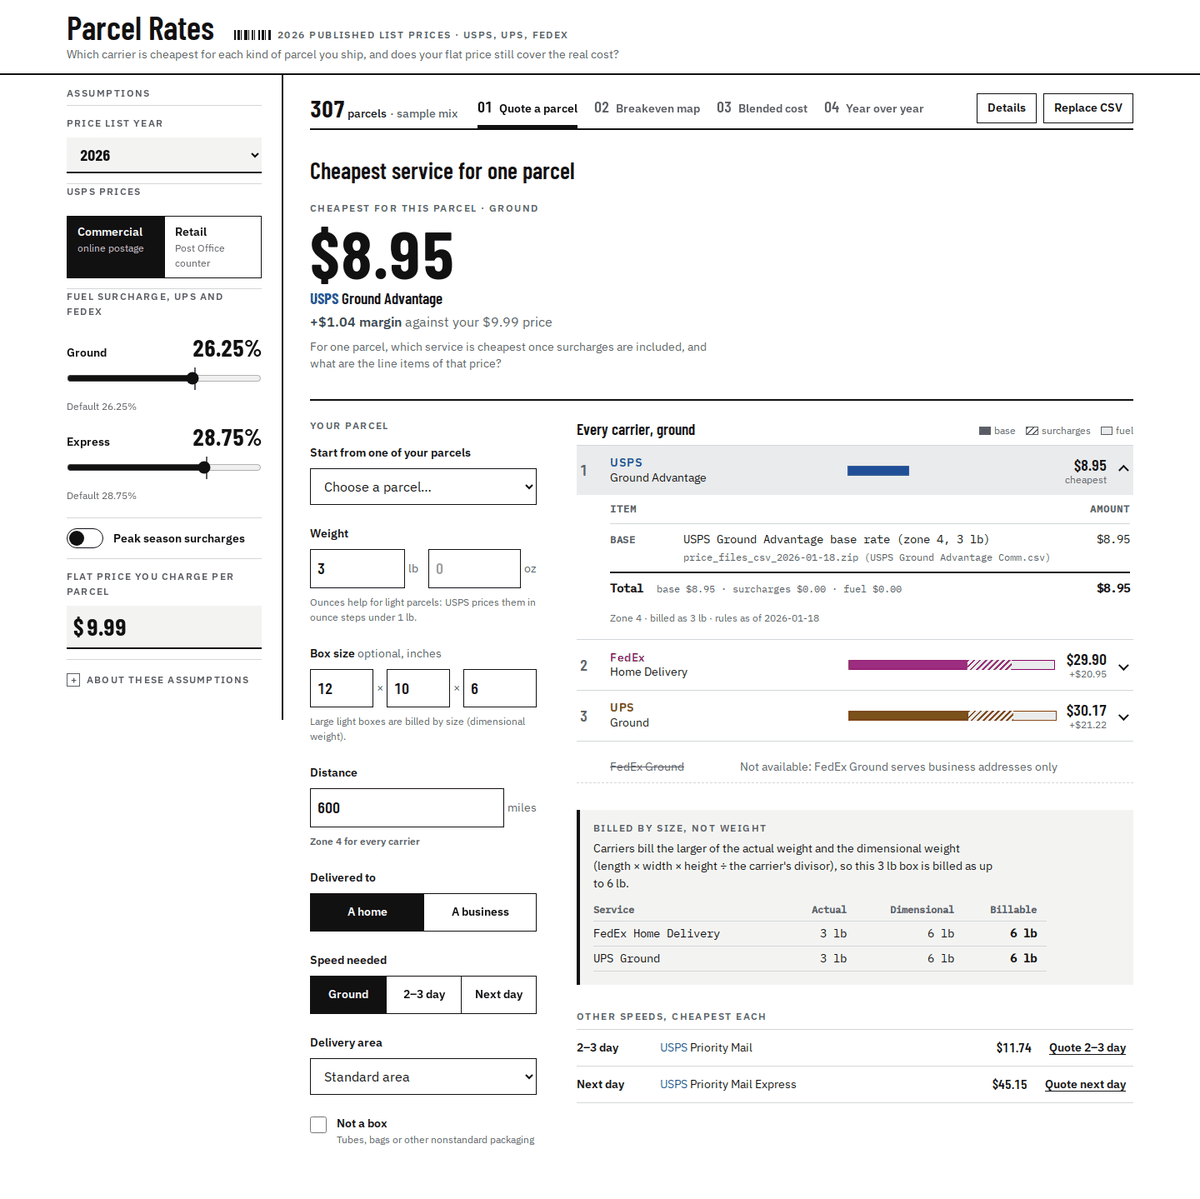
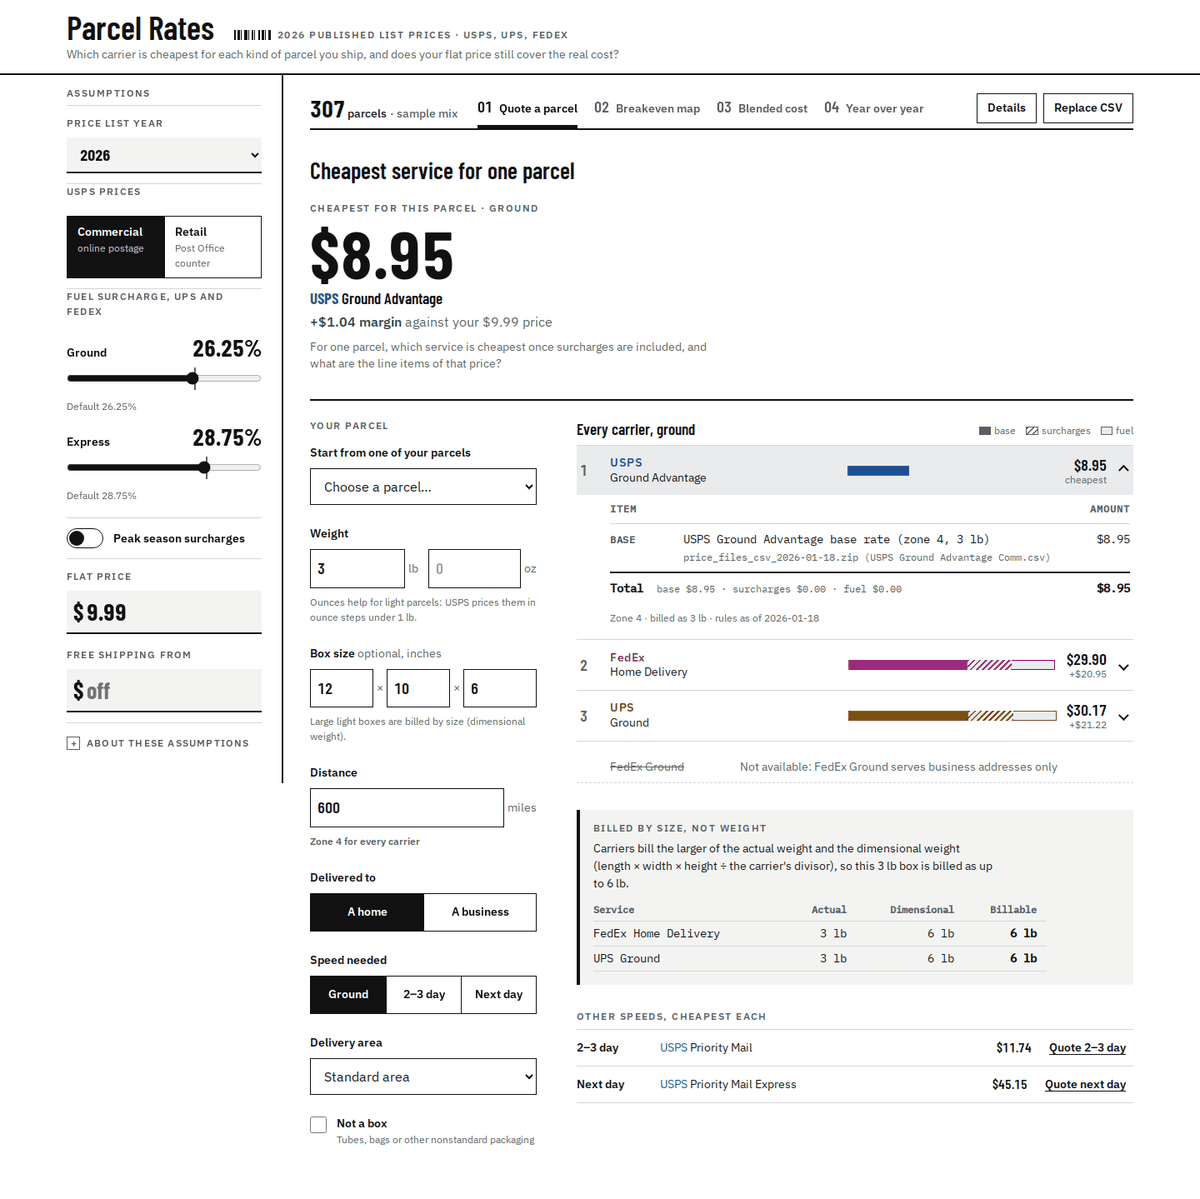
docs: free-shipping rule in API, schema, README, DESIGN and DECISIONS; screenshots

Changed region(s): [[0.0617, 0.4937, 0.2158, 0.648], [0.1542, 0.4629, 0.185, 0.4937]]

diff --git a/README.md b/README.md
@@ -93,12 +93,14 @@ cost once surcharges and yearly price increases are included.
 | 4 | How did that blended cost change year by year, compared with the average increase the carriers announced, and which parcels drove it? | The cheapest carrier's change since the first year against the compounded announced increases, a year by year chart (dollars or index) with the announced path, how much of the biggest rise was fuel, the segments that drove each step, and a next-year slider that projects the cost. |
 
 Global controls: price year, USPS rate card, fuel surcharge override, peak
-season toggle, and the flat price charged per parcel.
+season toggle, the flat price charged per parcel, and an optional "free shipping
+from order value" rule (parcels whose `order_value` reaches it are charged $0).
 
 Parcel CSV columns: `weight_lb, length_in, width_in, height_in,
 distance_miles, residential, speed` (`ground`, `two_three_day`, `next_day`),
 plus optional `quantity`, `price_charged`, `delivery_area`,
-`nonstandard_packaging`. The full schema is in
+`nonstandard_packaging` and `order_value` (the order's value, for the
+"free shipping from $X" assumption). The full schema is in
 [docs/data/SCHEMA.md](docs/data/SCHEMA.md).
 
 **The sample mix** is an illustrative home-goods shop, an example and not real
@@ -113,7 +115,10 @@ $39.99 for next day, because real shops charge more for faster shipping. At the
 default controls (2026, USPS commercial, $9.99) the mix opens near break-even:
 USPS, the cheapest carrier, costs $10.98 per parcel against $10.67 charged on
 average (−$0.31 per parcel), and the 40 % of parcels shipped at a loss are
-mostly the bulky boxes, parcels over 5 lb and the far zones.
+mostly the bulky boxes, parcels over 5 lb and the far zones. Every row also
+carries an illustrative `order_value` (about $9 per lb plus a basket of other
+items); with free shipping from $75, 54 parcels ship free and the USPS margin
+falls to −$2.06 per parcel.
 
 ## Data provenance
 

diff --git a/docs/API.md b/docs/API.md
@@ -32,6 +32,7 @@ interface Parcel {
   price_charged?: number;       // overrides Controls.flat_price for this row
   delivery_area?: DeliveryArea; // default "none"
   nonstandard_packaging?: boolean; // default false
+  order_value?: number;         // >= 0; value of the order the parcel ships (free-shipping rule)
 }
 
 interface Controls {
@@ -42,6 +43,9 @@ interface Controls {
   fuel_override_percent?: { ground?: number; express?: number }; // replaces the yearly default
   peak: boolean;                // default false; when true, as_of moves into the year's peak window
   flat_price: number;           // what the shop charges per parcel; default 9.99
+  free_shipping_over?: number | null; // free shipping on orders of this value or more; default none.
+                                // A parcel whose order_value reaches it is charged $0, ahead of its
+                                // price_charged; parcels without order_value are not affected
 }
 
 interface LineItem {
@@ -118,7 +122,9 @@ carrier per parcel (a "best mix" row). Each parcel uses the cheapest service
 of that carrier in the parcel's speed tier.
 
 Shape: `BlendedResponse` in `backend/app/api/models.py`: `year`,
-`parcels_considered`, `revenue_per_parcel`, `carriers[]` and `best_mix`. Each
+`parcels_considered`, `revenue_per_parcel`, `free_shipping` (null, or
+`{threshold, parcels}` when `free_shipping_over` is set: how many parcels ship
+free), `carriers[]` and `best_mix`. Each
 carrier row (and `best_mix`) is a `Summary`: `parcels_shipped`,
 `parcels_unavailable` (quantity no service of the carrier could carry),
 `total_cost`, `cost_per_parcel`, `split.{base,surcharges,fuel}.{per_parcel,total,share}`,

diff --git a/docs/DECISIONS.md b/docs/DECISIONS.md
@@ -256,6 +256,22 @@ before any parser agent was dispatched. From this point every big step
 - Effect at 1440 px: the Q1 answer moved from about 690 px to 360 px from the
   top, and the Q3 loss verdict is now on the first screen.
 
+## 2026-10-23 — Free shipping from an order value (issue #10)
+
+- The per-parcel `price_charged` column already overrode the flat price. The
+  missing piece of the shop's pricing policy was "free shipping on orders of
+  $X or more": parcels now take an optional `order_value` and the controls a
+  `free_shipping_over` threshold. A parcel whose order reaches it is charged
+  $0 for shipping, ahead of its own `price_charged` (free shipping is the
+  policy the customer sees at checkout). Rows without an order value are not
+  affected; the UI says so when a set has no `order_value` column.
+- The rule is off by default. The sample mix gained illustrative order values
+  from a separate random stream, so every other column and the default view
+  (−$0.31 per parcel with USPS) are unchanged; from $75, 54 of 307 parcels
+  ship free and the margin falls to −$2.06.
+- Q1 prices one parcel against the flat price and does not take an order
+  value; the rule applies to the parcel-set views (Q3 margins).
+
 ## Decisions changed after reviewing agent output
 
 | Decision | What the agent produced | What changed, and why | Where |

diff --git a/frontend/DESIGN.md b/frontend/DESIGN.md
@@ -36,7 +36,8 @@ says "label" before a word is read.
    on the left of the question tab row and Details / Replace CSV on its right
    (`useParcelSetUi` fills `QuestionTabs`' bar slots); share to homes, speed
    split and the full summary open under the row behind "Details".
-4. **Assumptions** (year, rate card, fuel, peak, flat price): from 80 rem
+4. **Assumptions** (year, rate card, fuel, peak, flat price and the optional
+   free-shipping threshold, which share one "pricing" field): from 80 rem
    (1280 px) a **260 px left rail**, sticky, the fields stacked with hairlines
    between them and styled like a label's header (uppercase `--text-xs` labels,
    bold values, no card); the questions start at the top beside it. From

diff --git a/docs/data/SCHEMA.md b/docs/data/SCHEMA.md
@@ -313,6 +313,7 @@ and verifies checksums; issue #13 scripts the discovery that produces this file.
 | speed | tier | Required |
 | quantity | int | Optional, default 1 |
 | price_charged | money | Optional; overrides the flat price control for that row |
+| order_value | money | Optional; value of the order the parcel ships. With the free-shipping control set, rows at or above it are charged $0 for shipping |
 | delivery_area | enum | Optional: `none` (default), `das`, `extended` |
 | nonstandard_packaging | bool | Optional, default `false`. Packaging that triggers handling fees: not a corrugated box, cylindrical, a can or wooden or metal box, liquids in glass |
 
